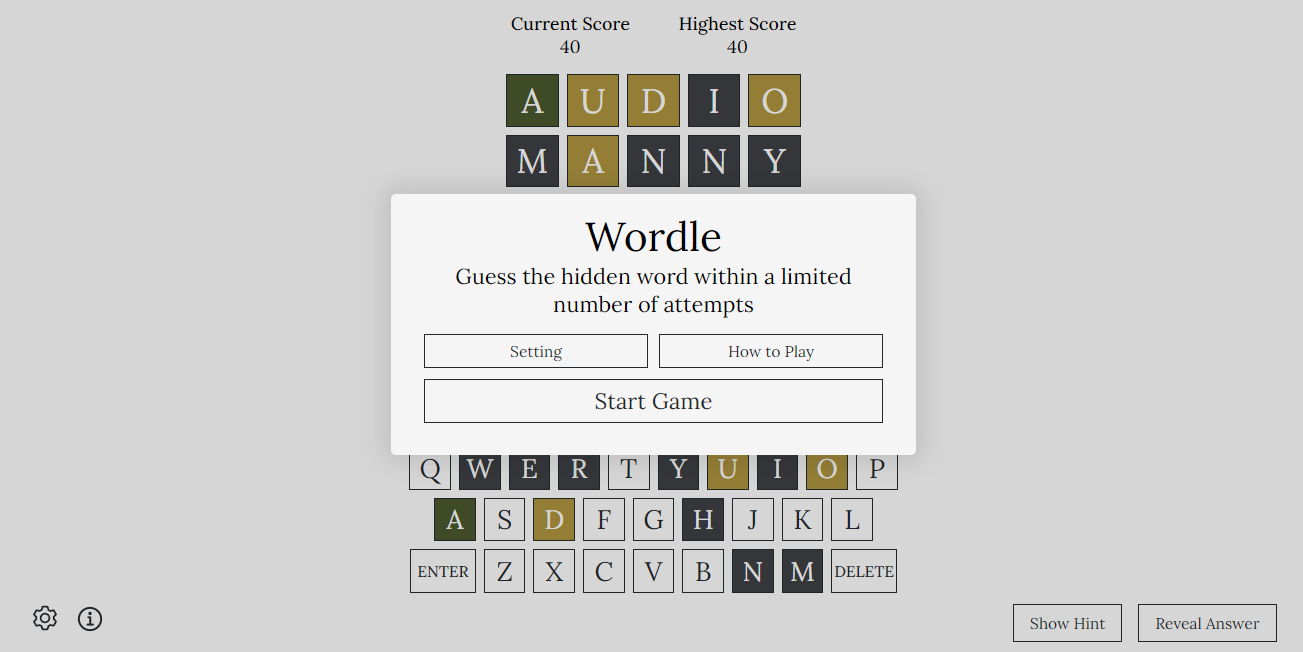
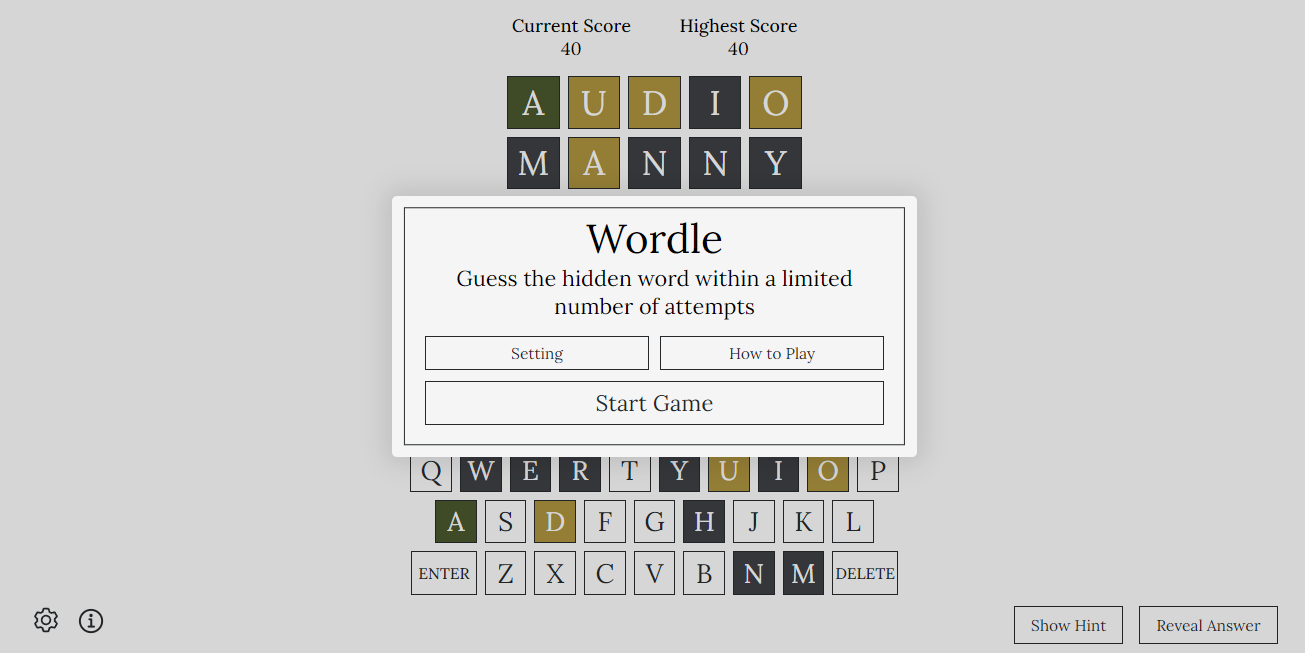
Fixed bug where game doesnt reset on page reset if at the end screen and update ss

diff --git a/src/page/wordle/Wordle.jsx b/src/page/wordle/Wordle.jsx
@@ -28,7 +28,6 @@ import hintSound from "/sound/hint.mp3"
 import revealSound from "/sound/reveal.mp3"
 import endSound from "/sound/end.mp3"
 
-
 const Wordle = ({ setting, updateSetting }) => {
     // Default cell used to updated proporties
     const defaultCell = {
@@ -138,13 +137,20 @@ const Wordle = ({ setting, updateSetting }) => {
                 }
             ))
         } else {
+            let gameEnd = true;
             setGameBoard(setting.gameBoard);
             for (let i = 0; i < setting.gameBoard.length; i++) {
                 // Check if the first cell in the row is unfilled (assuming 0 means unfilled)
                 if (setting.gameBoard[i].some(cell => cell.content === 0)) {
+                    gameEnd = false;
                     setCurrentRow(i);
                     break;
                 }
+            }
+
+            // Check if game was refresh at end screen
+            if (gameEnd) {
+                resetGame();
             }
         }
 
@@ -354,6 +360,9 @@ const Wordle = ({ setting, updateSetting }) => {
 
         const newScore = setting.currentScore + points
 
+        // Update our total reveal used
+        let newTotalRevealAnwserUsed = featureUsed === 'reveal' ? setting.totalRevealAnwserUsed + 1 :  setting.totalRevealAnwserUsed;
+
         // reset required information
         updateSetting(prev => (
             {
@@ -366,7 +375,8 @@ const Wordle = ({ setting, updateSetting }) => {
                 currentScore: resetPoints ? 0 : newScore,
                 highestScore: newScore >= prev.highestScore ? newScore : prev.highestScore,
                 hintAmount: hintAmount,
-                totalRevealAnwserUsed: featureUsed === 'reveal' ? prev.totalRevealAnwserUsed + 1 : prev.totalRevealAnwserUsed,
+                totalHintsUsed: resetPoints ? 0 : prev.totalHintsUsed,
+                totalRevealAnwserUsed: resetPoints ? 0 : newTotalRevealAnwserUsed,
             }
         ))
     }

diff --git a/src/page/wordle/wordle-component/EndScreen.jsx b/src/page/wordle/wordle-component/EndScreen.jsx
@@ -14,7 +14,7 @@ const EndScreen = ({
 }) => {
     return (
         <motion.article
-            className="wordle-overlay__small"
+            className="wordle-overlay__small wordle-overlay__small-big"
             variants={pageAnimation}
             initial="init"
             animate="animate"
@@ -23,7 +23,7 @@ const EndScreen = ({
                 ? "New High Score!"
                 : "Game Over"
             }</h3>
-            <p className="wordle-overlay__welcome-message">That was a tough one! The word was <strong>{word}</strong>. Want to try again?</p>
+            <p className="wordle-overlay__welcome-message">That was a tough one! The word was "<strong>{word}</strong>" <br /> Want to try again?</p>
             <div className="wordle-overly__endscreen-information">
                 <div className="wordle__information-format">
                     <p>Current Score</p>
@@ -34,7 +34,7 @@ const EndScreen = ({
                     <p>{currentScore}</p>
                 </div>
                 <div className="wordle__information-format">
-                    <p>Words completed</p>
+                    <p>Words Completed</p>
                     <p>{wordCompleted}</p>
                 </div>
                 <div className="wordle__information-format">

diff --git a/src/page/wordle/wordle.css b/src/page/wordle/wordle.css
@@ -271,7 +271,7 @@
 .wordle-overly__endscreen-information {
     display: grid;
     grid-template-columns: 1fr 1fr 1fr;
-    gap: var(--padding-size-very-small);
+    gap: calc(var(--padding-size-very-small) / 4.50);
     padding: var(--padding-size-very-small) 0;
     margin-bottom: calc(var(--padding-size-very-small) / 2);
     justify-content: center;
@@ -280,7 +280,7 @@
 }
 
 .wordle-overly__endscreen-information .wordle__information-format {
-    margin-top: calc(var(--padding-size-very-small) / 2);
+    margin-top: calc(var(--padding-size-very-small) * 1.25);
     text-transform: none;
 }
 
@@ -458,6 +458,24 @@
     background-color: var(--primary-color);
     content: "";
     transition: inherit;
+}
+
+.wordle-overlay__small-big::before,
+.wordle-overlay__small::before {
+    position: absolute;
+    top: 50%;
+    left: 50%;
+    z-index: -1;
+    height: 90%;
+    width: 95%;
+    background-color: transparent;
+    border: solid 1px var(--primary-color);
+    content: "";
+    translate: -50% -50%;
+}
+
+.wordle-overlay__small-big::before {
+    height: 95%;
 }
 
 /* Animation */
